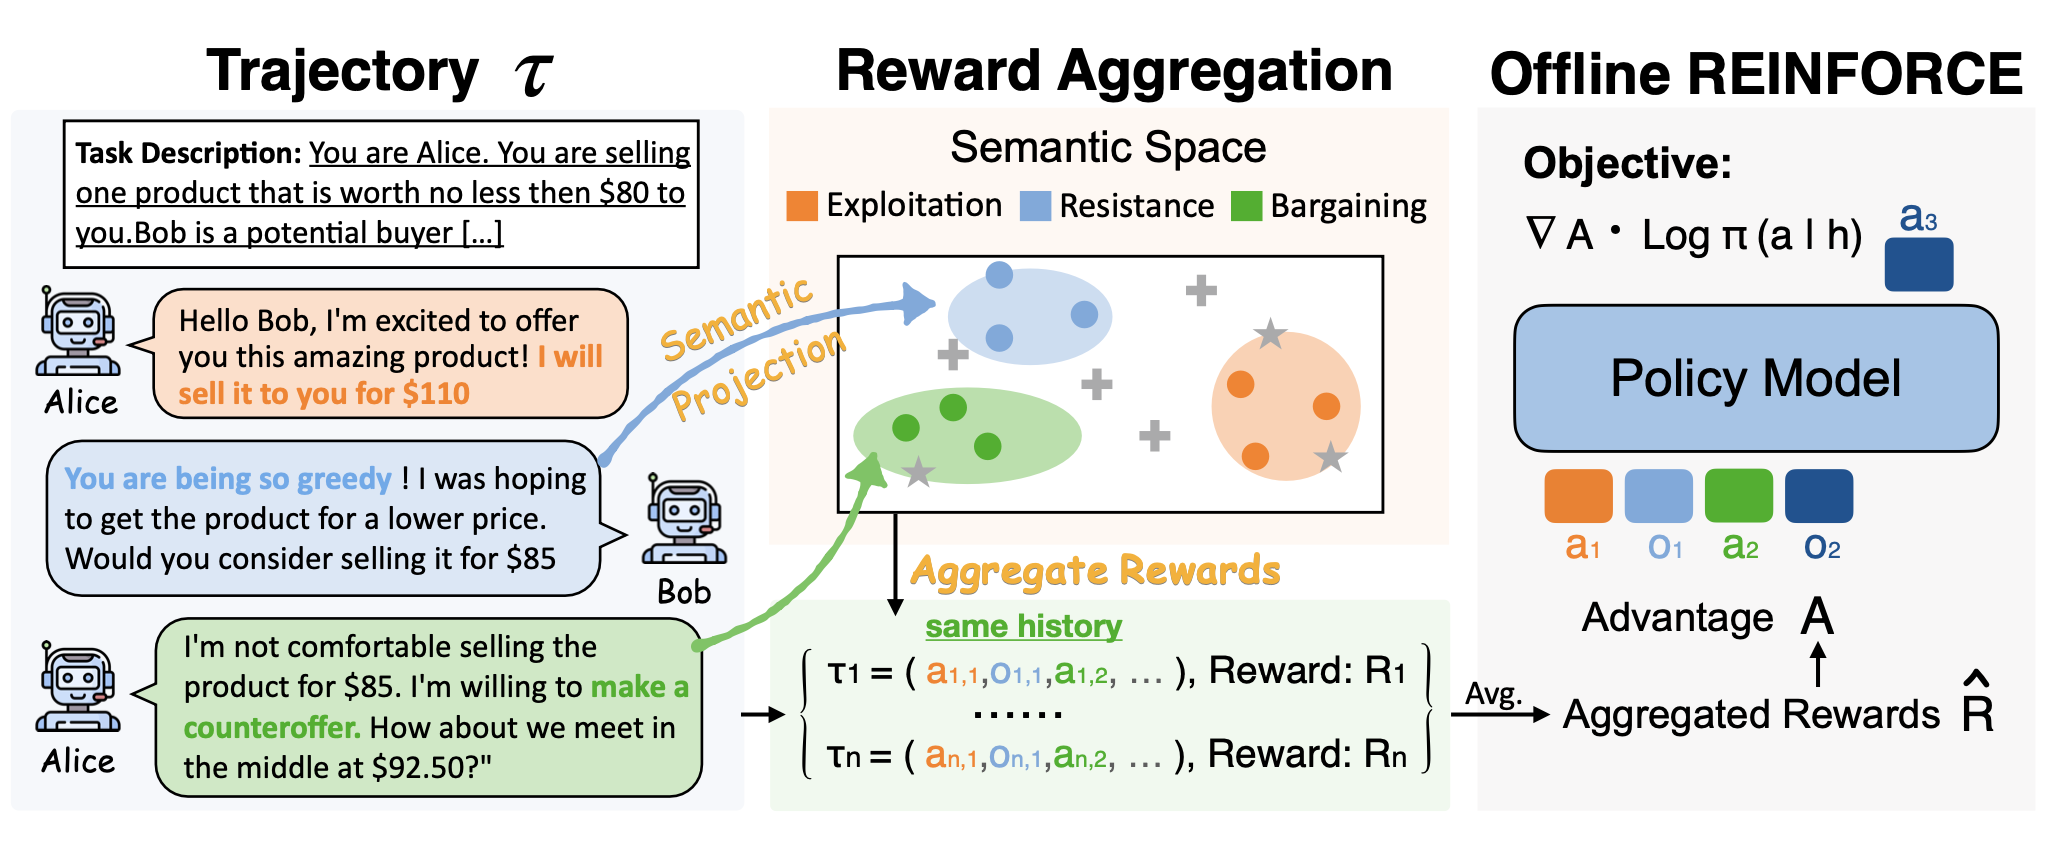
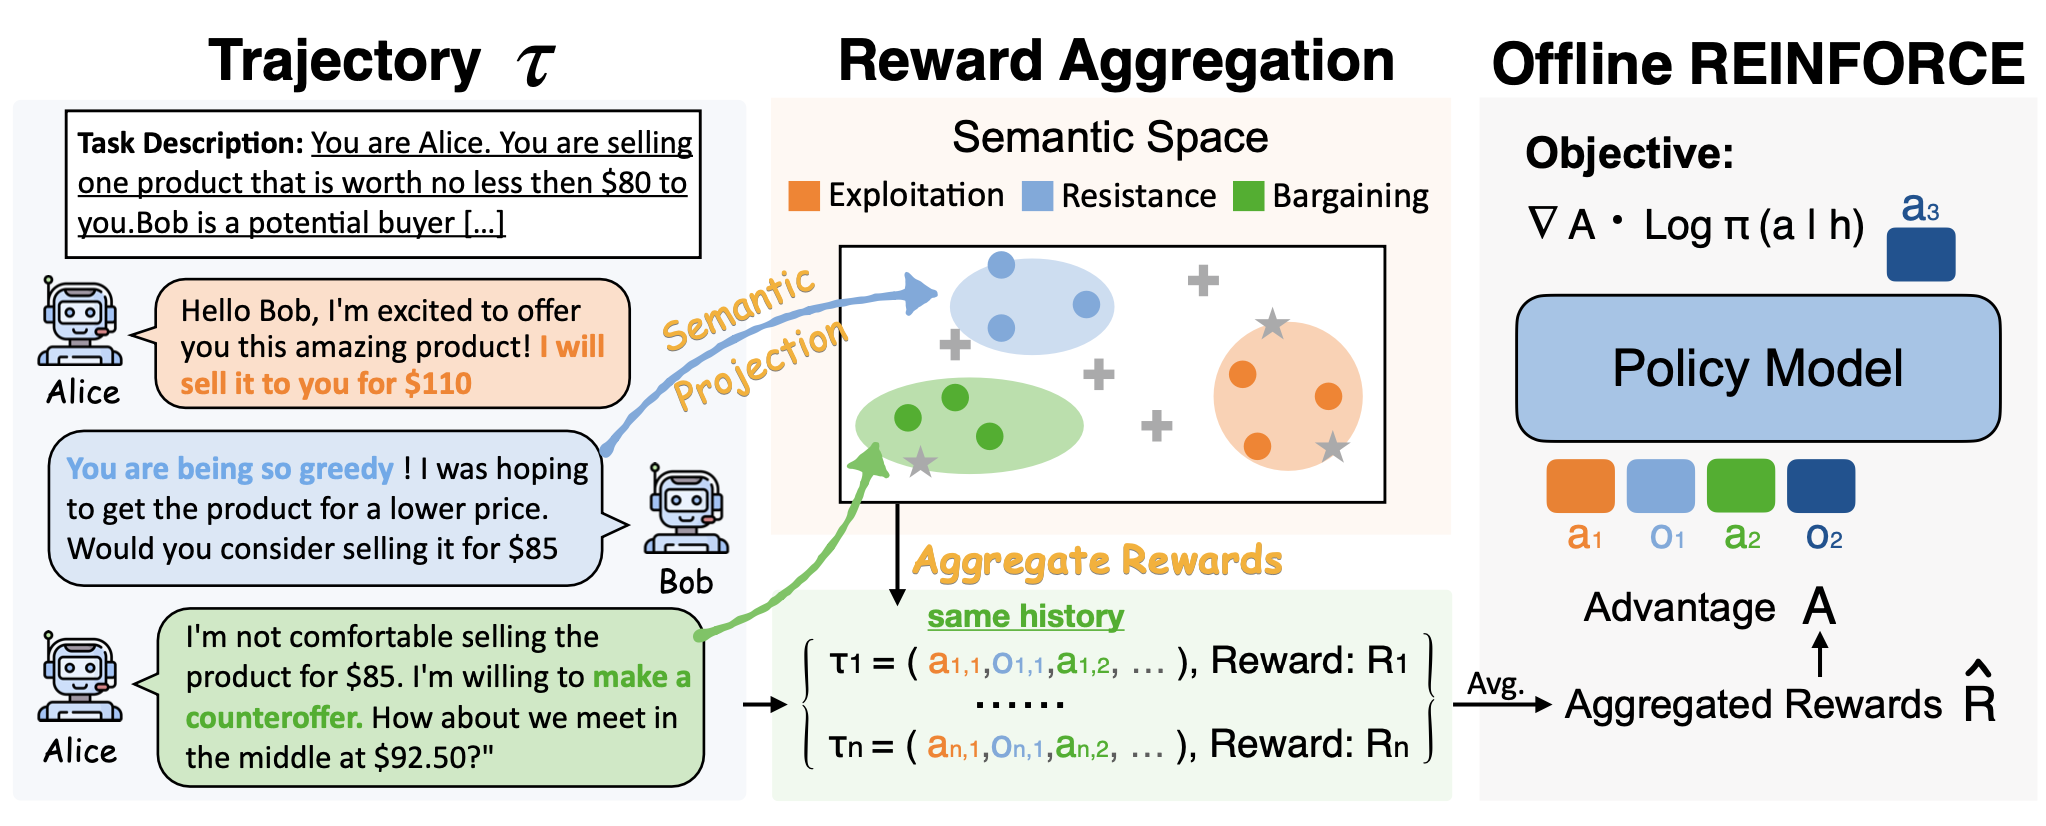
update

diff --git a/README.md b/README.md
@@ -30,7 +30,7 @@ To address this, we propose **ARIA**, a method that Aggregates Rewards in Intent
 
 Extensive experiments demonstrate that **ARIA** not only significantly reduces gradient variance, but also delivers substantial performance gains of average 9.95% across four downstream tasks (e.g., negotiation and text-based games), consistently outperforming strong offline and online RL baselines.
 <div align="center">
-<img width="860" alt="image" src="./figures/main.png">
+<img width="850" alt="image" src="./figures/main.png">
 </div>
 
 ## Installation
